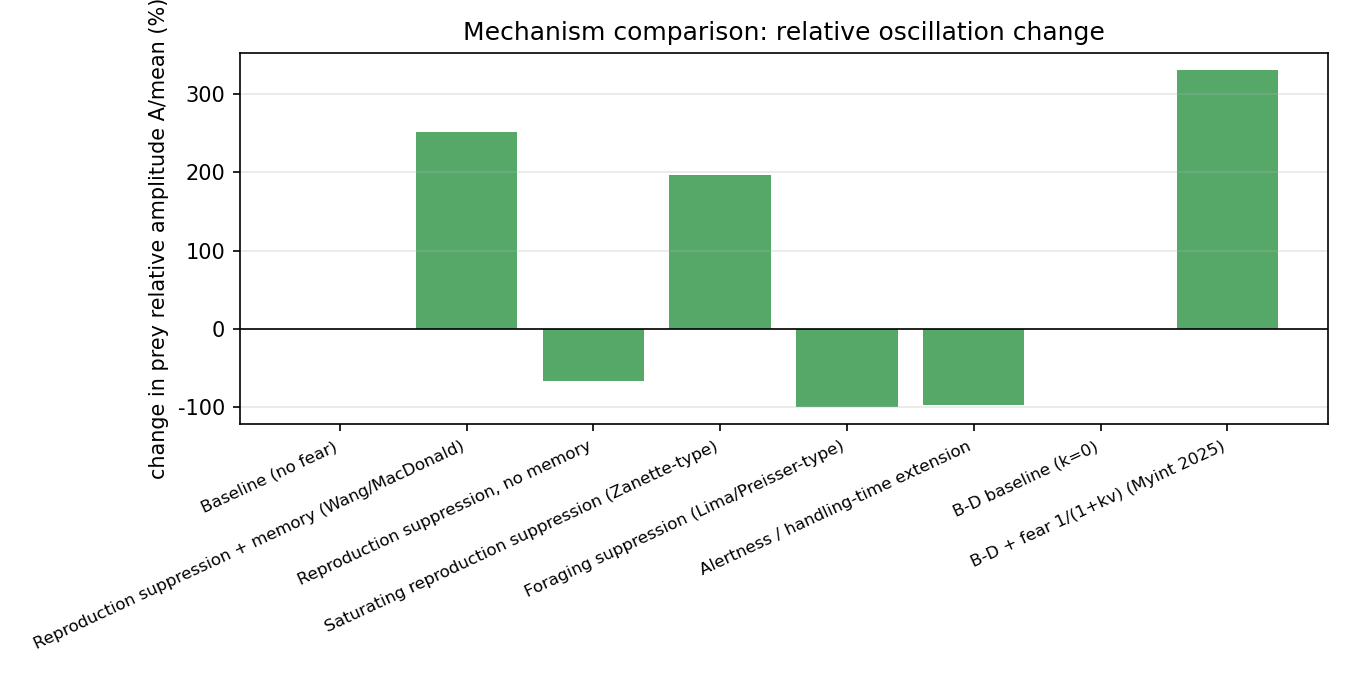
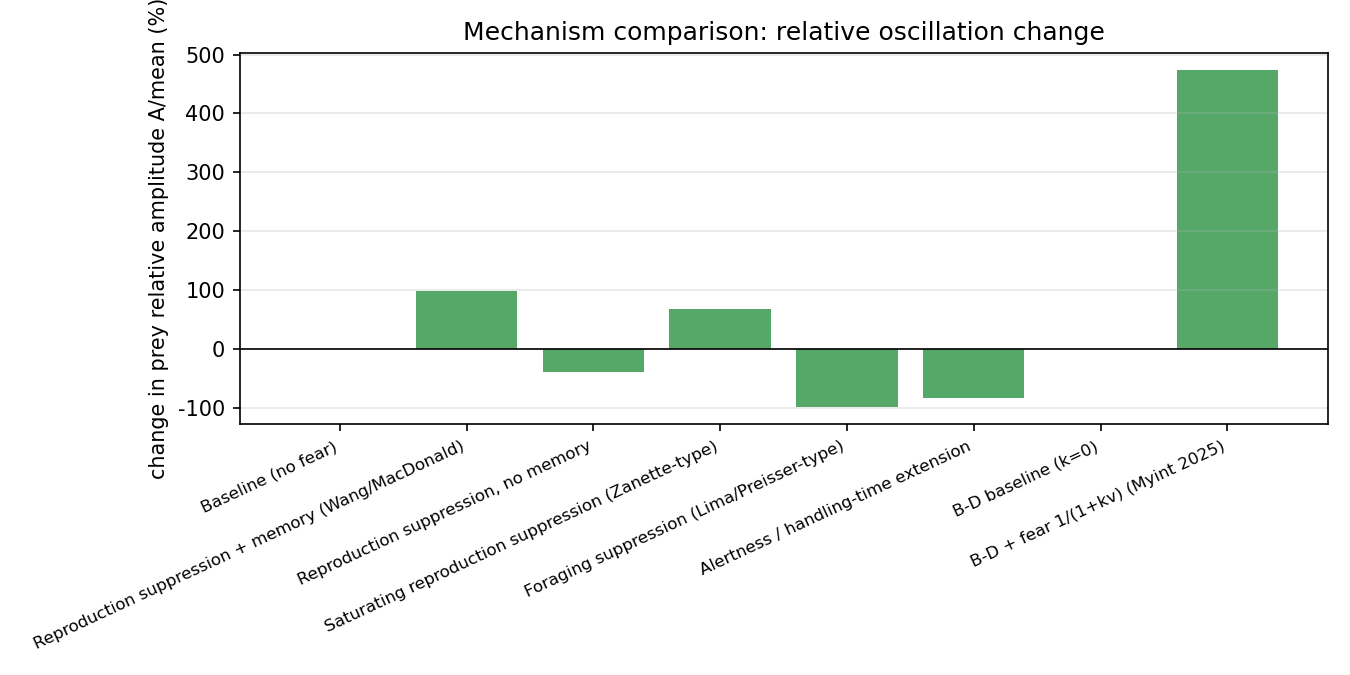
feat(analysis): calibrate equivalent fear strength

diff --git a/src/analysis.py b/src/analysis.py
@@ -2,12 +2,25 @@
 
 from __future__ import annotations
 
+from dataclasses import asdict, replace
+
 import numpy as np
 from scipy.optimize import brentq
 
 from .literature import run_mechanism
 from .model import bd_fear_rhs
-from .parameters import BDAFearParams, FearMemoryParams, MechanismId, baseline_default, bda_fear_default, fear_default
+from .parameters import (
+    BDAFearParams,
+    FearMemoryParams,
+    MechanismId,
+    baseline_default,
+    bda_fear_default,
+    bda_no_fear_default,
+    fear_default,
+    fear_foraging_default,
+    fear_handling_default,
+    fear_saturating_default,
+)
 from .simulate import integrate_baseline, integrate_fear_memory, is_extinct, long_term_mean
 
 
@@ -84,10 +97,17 @@ def scan_delta(
 def compare_mechanisms(
     t_end: float = 100.0,
     mechanisms: tuple[MechanismId, ...] | None = None,
+    comparison_mode: str = "equivalent",
 ) -> dict[str, list]:
     """按各模型体系自己的无恐惧基线比较长期均值与相对振幅。"""
     if mechanisms is None:
         mechanisms = tuple(MechanismId)
+    if comparison_mode == "equivalent":
+        params_by_mechanism = equivalent_fear_parameters()
+    elif comparison_mode == "default":
+        params_by_mechanism = {}
+    else:
+        raise ValueError("comparison_mode must be 'equivalent' or 'default'")
 
     rows: dict[str, list] = {
         "mechanism": [],
@@ -115,7 +135,11 @@ def compare_mechanisms(
         return "Holling II", MechanismId.BASELINE
 
     def metrics(mid: MechanismId) -> dict[str, float | str]:
-        sol = run_mechanism(mid, t_span=(0.0, t_end))
+        sol = run_mechanism(
+            mid,
+            t_span=(0.0, t_end),
+            params=params_by_mechanism.get(mid),
+        )
         xm, ym = long_term_mean(sol, burn_in_frac=0.35)
         tail = slice(int(sol.t.size * 0.5), None)
         amp_x = float(np.max(sol.y[0, tail]) - np.min(sol.y[0, tail]))
@@ -162,6 +186,109 @@ def compare_mechanisms(
             )
 
     return rows
+
+
+def equivalent_fear_calibration(target_suppression: float = 0.20) -> dict:
+    """
+    在各模型体系无恐惧正平衡点处，将机制参数校准到相同抑制比例。
+
+    繁殖抑制机制匹配猎物增长项降低比例；觅食/处理时间机制匹配
+    Holling II 捕食率降低比例；B-D 匹配繁殖因子 1/(1+kv)。
+    """
+    if not 0.0 < target_suppression < 1.0:
+        raise ValueError("target_suppression must be between 0 and 1")
+
+    holling_eq = equilibrium_baseline(baseline_default)
+    bda_eq = equilibrium_bda_fear(bda_no_fear_default)
+    x_ref = float(holling_eq["x_star"])
+    y_ref = float(holling_eq["y_star"])
+    u_ref = float(bda_eq["u_star"])
+    v_ref = float(bda_eq["v_star"])
+    remaining = 1.0 - target_suppression
+    memory_ref = y_ref / fear_default.delta
+
+    phi_memory = target_suppression * (1.0 - x_ref / baseline_default.K) / memory_ref
+    phi_instant = target_suppression * (1.0 - x_ref / baseline_default.K) / y_ref
+    h_saturating = y_ref
+    phi_saturating = target_suppression * (y_ref + h_saturating) / y_ref
+    psi_foraging = target_suppression / (remaining * y_ref)
+    psi_handling = (
+        (1.0 + baseline_default.theta * x_ref)
+        * target_suppression
+        / (remaining * baseline_default.theta * x_ref * y_ref)
+    )
+    k_bda = target_suppression / (remaining * v_ref)
+
+    params = {
+        MechanismId.BASELINE: baseline_default,
+        MechanismId.FEAR_MEMORY: replace(fear_default, phi=phi_memory),
+        MechanismId.FEAR_INSTANT: replace(fear_default, phi=phi_instant),
+        MechanismId.FEAR_SATURATING: replace(
+            fear_saturating_default,
+            phi=phi_saturating,
+            h=h_saturating,
+        ),
+        MechanismId.FEAR_FORAGING: replace(fear_foraging_default, psi=psi_foraging),
+        MechanismId.FEAR_HANDLING: replace(fear_handling_default, psi=psi_handling),
+        MechanismId.BDA_BASELINE: bda_no_fear_default,
+        MechanismId.BDA_FEAR: replace(bda_fear_default, k=k_bda),
+    }
+
+    attack_ratio_handling = (
+        1.0 + baseline_default.theta * x_ref
+    ) / (
+        1.0
+        + baseline_default.theta
+        * (1.0 + psi_handling * y_ref)
+        * x_ref
+    )
+    achieved = {
+        MechanismId.FEAR_MEMORY: phi_memory * memory_ref / (1.0 - x_ref / baseline_default.K),
+        MechanismId.FEAR_INSTANT: phi_instant * y_ref / (1.0 - x_ref / baseline_default.K),
+        MechanismId.FEAR_SATURATING: phi_saturating * y_ref / (y_ref + h_saturating),
+        MechanismId.FEAR_FORAGING: 1.0 - 1.0 / (1.0 + psi_foraging * y_ref),
+        MechanismId.FEAR_HANDLING: 1.0 - attack_ratio_handling,
+        MechanismId.BDA_FEAR: 1.0 - 1.0 / (1.0 + k_bda * v_ref),
+    }
+    return {
+        "target_suppression": target_suppression,
+        "reference_states": {
+            "holling_no_fear_equilibrium": {"prey": x_ref, "predator": y_ref},
+            "bda_k0_equilibrium": {"prey": u_ref, "predator": v_ref},
+            "memory_steady_state": memory_ref,
+        },
+        "calibration_rule": {
+            "fear_memory": "growth-term suppression at Holling equilibrium, M*=y*/delta",
+            "fear_instant": "growth-term suppression at Holling equilibrium",
+            "fear_saturating": "growth-term suppression at Holling equilibrium, h=y*",
+            "fear_foraging": "predation-rate suppression at Holling equilibrium",
+            "fear_handling": "predation-rate suppression at Holling equilibrium",
+            "bda_fear": "B-D reproduction-factor suppression at k=0 equilibrium",
+        },
+        "params": params,
+        "achieved_suppression": achieved,
+    }
+
+
+def equivalent_fear_parameters(target_suppression: float = 0.20) -> dict[MechanismId, object]:
+    """返回用于公平机制对照的等效恐惧参数。"""
+    return equivalent_fear_calibration(target_suppression)["params"]
+
+
+def equivalent_fear_calibration_summary(target_suppression: float = 0.20) -> dict:
+    """返回可 JSON 序列化的等效恐惧校准摘要。"""
+    calibration = equivalent_fear_calibration(target_suppression)
+    return {
+        **{k: v for k, v in calibration.items() if k not in ("params", "achieved_suppression")},
+        "params": {
+            mid.value: asdict(params)
+            for mid, params in calibration["params"].items()
+        },
+        "achieved_suppression": {
+            mid.value: value
+            for mid, value in calibration["achieved_suppression"].items()
+        },
+    }
 
 
 def nce_vs_consumptive_summary(

diff --git a/src/literature.py b/src/literature.py
@@ -2,7 +2,7 @@
 
 from __future__ import annotations
 
-from typing import Callable
+from typing import Callable, Mapping
 
 import numpy as np
 from .model import (
@@ -25,35 +25,35 @@ from .parameters import (
     fear_handling_default,
     fear_saturating_default,
 )
-from .simulate import integrate_baseline, integrate_fear_instant, integrate_fear_memory, integrate_rhs
+from .simulate import integrate_rhs
 
 
-def make_rhs(mid: MechanismId) -> tuple[Callable, np.ndarray]:
+def make_rhs(mid: MechanismId, params=None) -> tuple[Callable, np.ndarray]:
     """返回 (rhs, y0) 对。"""
     x0, y0 = 40.0, 8.0
     if mid == MechanismId.BASELINE:
-        p = baseline_default
+        p = params or baseline_default
         return lambda t, s: baseline_rhs(t, s, p), np.array([x0, y0])
     if mid == MechanismId.FEAR_MEMORY:
-        p = fear_default
+        p = params or fear_default
         return lambda t, s: fear_memory_rhs(t, s, p), np.array([x0, y0, y0])
     if mid == MechanismId.FEAR_INSTANT:
-        p = fear_default
+        p = params or fear_default
         return lambda t, s: fear_instant_rhs(t, s, p), np.array([x0, y0])
     if mid == MechanismId.FEAR_SATURATING:
-        p = fear_saturating_default
+        p = params or fear_saturating_default
         return lambda t, s: fear_saturating_rhs(t, s, p), np.array([x0, y0])
     if mid == MechanismId.FEAR_FORAGING:
-        p = fear_foraging_default
+        p = params or fear_foraging_default
         return lambda t, s: fear_foraging_rhs(t, s, p), np.array([x0, y0])
     if mid == MechanismId.FEAR_HANDLING:
-        p = fear_handling_default
+        p = params or fear_handling_default
         return lambda t, s: fear_handling_rhs(t, s, p), np.array([x0, y0])
     if mid == MechanismId.BDA_BASELINE:
-        p = bda_no_fear_default
+        p = params or bda_no_fear_default
         return lambda t, s: bd_fear_rhs(t, s, p), np.array([0.17, 3.9])
     if mid == MechanismId.BDA_FEAR:
-        p = bda_fear_default
+        p = params or bda_fear_default
         return lambda t, s: bd_fear_rhs(t, s, p), np.array([0.17, 3.9])
     raise ValueError(f"未知机制: {mid}")
 
@@ -62,21 +62,21 @@ def run_mechanism(
     mid: MechanismId,
     t_span: tuple[float, float] = (0.0, 80.0),
     n_points: int = 800,
+    params=None,
 ):
-    if mid == MechanismId.BASELINE:
-        return integrate_baseline(baseline_default, t_span=t_span, n_points=n_points)
-    if mid == MechanismId.FEAR_MEMORY:
-        return integrate_fear_memory(fear_default, t_span=t_span, n_points=n_points)
-    if mid == MechanismId.FEAR_INSTANT:
-        return integrate_fear_instant(fear_default, t_span=t_span, n_points=n_points)
-    rhs, y0 = make_rhs(mid)
+    rhs, y0 = make_rhs(mid, params=params)
     return integrate_rhs(rhs, y0, t_span=t_span, n_points=n_points)
 
 
 def run_all_mechanisms(
     t_span: tuple[float, float] = (0.0, 80.0),
+    params_by_mechanism: Mapping[MechanismId, object] | None = None,
 ):
-    return {mid: run_mechanism(mid, t_span=t_span) for mid in MechanismId}
+    params_by_mechanism = params_by_mechanism or {}
+    return {
+        mid: run_mechanism(mid, t_span=t_span, params=params_by_mechanism.get(mid))
+        for mid in MechanismId
+    }
 
 
 def mechanism_labels() -> dict[MechanismId, str]:

diff --git a/main.py b/main.py
@@ -7,6 +7,7 @@
 
 from __future__ import annotations
 
+import json
 import os
 from pathlib import Path
 
@@ -17,6 +18,8 @@ os.environ.setdefault("MPLBACKEND", "Agg")
 
 from src.analysis import (
     compare_mechanisms,
+    equivalent_fear_calibration_summary,
+    equivalent_fear_parameters,
     equilibrium_baseline,
     equilibrium_bda_fear,
     nce_vs_consumptive_summary,
@@ -99,17 +102,45 @@ def main() -> None:
 
     # --- 文献机制对照实验 ---
     print("\n--- 文献机制对照 ---")
-    all_sols = run_all_mechanisms(t_span=(0.0, 80.0))
+    equivalent_params = equivalent_fear_parameters(target_suppression=0.20)
+    calibration_summary = equivalent_fear_calibration_summary(target_suppression=0.20)
+    (out_dir / "equivalent_fear_calibration.json").write_text(
+        json.dumps(calibration_summary, indent=2, ensure_ascii=False),
+        encoding="utf-8",
+    )
+    all_sols = run_all_mechanisms(
+        t_span=(0.0, 80.0),
+        params_by_mechanism=equivalent_params,
+    )
     labels = mechanism_labels()
     plot_mechanism_comparison(
         all_sols, labels, out_dir / "08_literature_mechanisms_timeseries.png"
     )
     print("[8] 08_literature_mechanisms_timeseries.png")
 
-    cmp = compare_mechanisms(t_end=100.0)
+    cmp = compare_mechanisms(t_end=100.0, comparison_mode="equivalent")
     plot_mechanism_bars(cmp, out_dir / "09_literature_mechanisms_bars.png")
     plot_amplitude_comparison(cmp, out_dir / "10_literature_oscillation_amplitude.png")
     print("[9-10] 09_literature_mechanisms_bars.png, 10_literature_oscillation_amplitude.png")
+
+    supplementary_dir = out_dir / "supplementary"
+    supplementary_dir.mkdir(exist_ok=True)
+    default_sols = run_all_mechanisms(t_span=(0.0, 80.0))
+    default_cmp = compare_mechanisms(t_end=100.0, comparison_mode="default")
+    plot_mechanism_comparison(
+        default_sols,
+        labels,
+        supplementary_dir / "08_literature_mechanisms_timeseries_default_params.png",
+    )
+    plot_mechanism_bars(
+        default_cmp,
+        supplementary_dir / "09_literature_mechanisms_bars_default_params.png",
+    )
+    plot_amplitude_comparison(
+        default_cmp,
+        supplementary_dir / "10_literature_oscillation_amplitude_default_params.png",
+    )
+    print("    默认参数对照保留于 results/supplementary/")
 
     nce = nce_vs_consumptive_summary()
     print(
